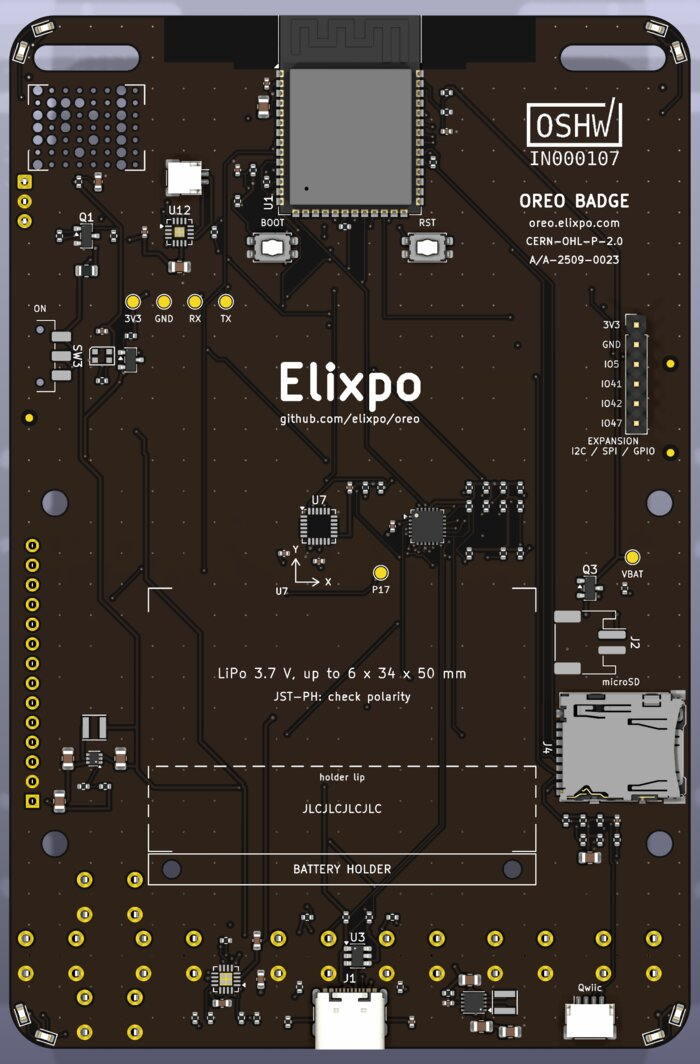
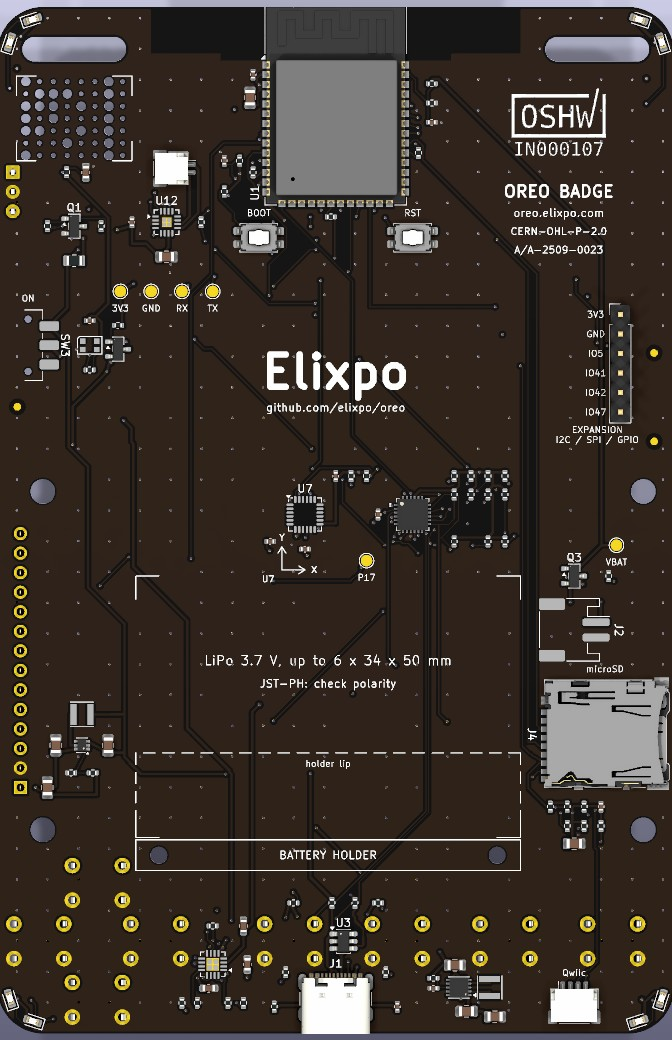
hardware: the PCB badge as ordered, with its docs and cost (#174)
The first five boards and the parts for the PCB badge are ordered. This
brings the repo, the docs and the website in line with what was ordered.

**Board**
- `elixpo.kicad_pcb`: the `JLCJLCJLCJLC` order-number placeholder is
removed from the back silkscreen. The boards are ordered with **Mark on
PCB: Remove Mark**, so it would otherwise print as plain text.
- `generate_badge_pcb.py`: `JLC_MARK = None`, so a regenerated board
doesn't add it back.

**Cost and BOM**
- New `circuit/elixpo/BOM_COST.md`: the bill of materials for one badge.
Each LCSC line is the quantity one badge uses times its one-unit price
as paid, converted at the rate both orders were charged. It lists the
in-stock replacements used where LCSC had run out (22 µF C602037, 1 µF
50 V C92848, 22 Ω C114765, WS2812B-2020-V6 C52917434) and the parts
bought from LCSC that `BOM_ORDER.csv` had left to other shops. One badge
comes to ₹4,172 ±2%, before customs duty.

**Docs and website**
- `circuit/elixpo/README.md`: front and back renders, the JLCPCB order
settings, and hand assembly from bare boards.
- `README.md`, `docs/HARDWARE.md`: the PCB badge alongside the
breadboard badge that OreoOS runs on today.
- Website badge page (`oreo.elixpo/src/app/badge/page.tsx`): the PCB's
specs and its front and back renders.
- `renders/back.jpg`: re-rendered without the placeholder.

**Tested on the host**
- ERC: 0 errors, 0 warnings. DRC with schematic parity: 0 errors, 0
unconnected, the same 4 warnings as main.
[…]

diff --git a/oreo.elixpo/src/app/badge/page.tsx b/oreo.elixpo/src/app/badge/page.tsx
@@ -8,14 +8,14 @@ import {
 } from "lucide-react";
 
 const SPECS = [
-  { Icon: Cpu,          k: "MCU",      v: "ESP32-S3 dual core @ 240 MHz" },
-  { Icon: MemoryStick,  k: "Memory",   v: "16 MB flash · 8 MB PSRAM" },
-  { Icon: Radio,        k: "Radio",    v: "WiFi 2.4 GHz · BLE 5 · IR transceiver" },
-  { Icon: Layout,       k: "Display",  v: "ST7789 240×320 IPS · portrait" },
-  { Icon: Battery,      k: "Power",    v: "USB-C + LiPo deep-sleep · ~5 µA standby" },
-  { Icon: Usb,          k: "I/O",      v: "8-button matrix · IMU · 1-wire IR · I²C bus" },
-  { Icon: Ruler,        k: "Dimensions", v: "55 × 90 mm portrait PCB" },
-  { Icon: Layers,       k: "Layers",   v: "4-layer FR-4 · 1.6 mm · ENIG finish" },
+  { Icon: Cpu,          k: "MCU",      v: "ESP32-S3-WROOM-1 · dual core @ 240 MHz" },
+  { Icon: MemoryStick,  k: "Memory",   v: "16 MB flash · 8 MB PSRAM · microSD" },
+  { Icon: Radio,        k: "Radio",    v: "Wi-Fi 2.4 GHz · Bluetooth LE 5 · IR transmit and receive" },
+  { Icon: Layout,       k: "Display",  v: "2.8″ ILI9341 320×240 · resistive touch · landscape" },
+  { Icon: Battery,      k: "Power",    v: "LiPo · USB-C charging (BQ24074) · 3.3 V buck-boost" },
+  { Icon: Usb,          k: "I/O",      v: "8 buttons · MPU-6050 · speaker · Qwiic · 4-GPIO header" },
+  { Icon: Ruler,        k: "Dimensions", v: "88 × 133.5 mm portrait PCB" },
+  { Icon: Layers,       k: "Layers",   v: "4-layer FR-4 · 1.6 mm · black mask" },
 ];
 
 const STACK = [
@@ -44,7 +44,7 @@ export default function BadgePage() {
         <div className="max-w-3xl">
           <motion.div initial="hidden" animate="visible" variants={staggerContainer}>
             <motion.span variants={fadeUp} className="chip mb-6">
-              ESP32-S3-DevKitC · breadboard phase
+              PCB v1 · first boards ordered
             </motion.span>
             <motion.h1
               variants={fadeUp}
@@ -57,25 +57,32 @@ export default function BadgePage() {
               </span>
             </motion.h1>
             <motion.p variants={fadeUp} className="mt-5 max-w-2xl text-text-dim">
-              Tufty-classic portrait layout. Eight buttons, IR for line-of-sight
-              quests, an MPU6050 for shake and tilt, four LEDs around the frame.
-              The build guide, BOM and KiCad schematics live in the repo — fork
-              them and roll your own.
+              A 2.8″ touch screen, eight buttons, IR for line-of-sight quests,
+              an MPU-6050 for shake and tilt, a speaker, and LEDs around the
+              frame. The KiCad design, the bill of materials and the build
+              notes live in the repo, so you can fork them and make your own.
             </motion.p>
             <motion.div variants={fadeUp} className="mt-8 flex flex-wrap gap-3">
               <a
-                href="https://github.com/elixpo/oreo/blob/main/docs/HARDWARE.md"
+                href="https://github.com/elixpo/oreo/blob/main/circuit/elixpo/README.md"
                 target="_blank" rel="noreferrer"
                 className="btn-primary"
               >
-                <Github className="h-4 w-4" /> Build guide + BOM
+                <Github className="h-4 w-4" /> Board design notes
+              </a>
+              <a
+                href="https://github.com/elixpo/oreo/blob/main/circuit/elixpo/BOM_COST.md"
+                target="_blank" rel="noreferrer"
+                className="btn-ghost"
+              >
+                Bill of materials
               </a>
               <a
                 href="https://github.com/elixpo/oreo/tree/main/circuit/elixpo"
                 target="_blank" rel="noreferrer"
                 className="btn-ghost"
               >
-                KiCad schematics
+                KiCad files
               </a>
               <a
                 href="https://github.com/elixpo/oreo"
@@ -108,18 +115,32 @@ export default function BadgePage() {
 
         </div>
 
-        {/* ── BOARD SCHEMATIC ─────────────────────────────────────────── */}
+        {/* ── THE BOARD ───────────────────────────────────────────────── */}
         <Reveal>
-          <figure className="mt-16 overflow-hidden rounded-lg border border-border bg-bg-raised/40">
-            {/* eslint-disable-next-line @next/next/no-img-element */}
-            <img
-              src="/bom_board.webp"
-              alt="Oreo Badge board schematic and bill of materials"
-              className="h-auto w-full object-contain"
-              loading="lazy"
-              decoding="async"
-            />
-          </figure>
+          <div className="mt-16 grid gap-4 sm:grid-cols-2">
+            {[
+              { src: "/pcb_front.jpg", alt: "Front of the Oreo badge PCB", label: "Front" },
+              { src: "/pcb_back.jpg",  alt: "Back of the Oreo badge PCB",  label: "Back" },
+            ].map((img) => (
+              <figure
+                key={img.src}
+                className="overflow-hidden rounded-lg border border-border bg-bg-raised/40"
+              >
+                {/* eslint-disable-next-line @next/next/no-img-element */}
+                <img
+                  src={img.src}
+                  alt={img.alt}
+                  className="h-auto w-full object-contain"
+                  width={700} height={1064}
+                  loading="lazy"
+                  decoding="async"
+                />
+                <figcaption className="px-4 py-3 text-xs uppercase tracking-widest text-muted">
+                  {img.label}
+                </figcaption>
+              </figure>
+            ))}
+          </div>
         </Reveal>
 
         {/* ── SPEC GRID ────────────────────────────────────────────── */}

diff --git a/circuit/elixpo/generate_badge_pcb.py b/circuit/elixpo/generate_badge_pcb.py
@@ -58,7 +58,7 @@ HEART = (79.0, 35.5, 11.0)                # front, far right, where the panda is
 BACK_ROW_Y = 47.5                          # centre line of "Elixpo"
 BACK_COLUMN = (15.0, 9.0)                  # front-view centre x and top of the column
 REPO_URL = "github.com/elixpo/oreo"            # under "Elixpo"
-JLC_MARK = "JLCJLCJLCJLC"                     # where JLCPCB puts its order number
+JLC_MARK = None                                 # no JLCPCB order number ("Remove Mark")
 OSHW_H = 12.0                              # height of the OSHWA certification mark
 
 
@@ -566,9 +566,10 @@ def silkscreen(board):
             y += 2.5
     add_text(board, bs, "BATTERY HOLDER", bx + bw / 2, fy + HOLDER_FOOT / 2, 1.0, 0.15, mirror=True)
     add_text(board, bs, "holder lip", bx + bw / 2, ly + 1.4, 0.8, 0.12, mirror=True)
-    # JLCPCB prints its order number over this text ("Specify a location" when
-    # ordering); here the battery covers it.
-    add_text(board, bs, JLC_MARK, bx + bw / 2, ly + 5.5, 1.0, 0.15, mirror=True)
+    # Order with "Remove Mark": no JLCPCB order number. Set JLC_MARK to a
+    # placeholder to have it printed here, under the battery.
+    if JLC_MARK:
+        add_text(board, bs, JLC_MARK, bx + bw / 2, ly + 5.5, 1.0, 0.15, mirror=True)
     add_text(board, bs, "LiPo 3.7 V, up to 6 x 34 x 50 mm", bx + bw / 2, by + bh / 2 - 6, 1.2, 0.15, mirror=True)
     add_text(board, bs, "JST-PH: check polarity", bx + bw / 2, by + bh / 2 - 3, 1.0, 0.15, mirror=True)
     add_rect(board, pcbnew.B_Fab, sx, sy, sw, sh, 0.1)

diff --git a/circuit/elixpo/BOM_COST.md b/circuit/elixpo/BOM_COST.md
@@ -1,0 +1,99 @@
+# Oreo badge: one-unit BOM and cost
+
+The cost of the parts in **one** badge, from the prices actually paid on 17 November 2026. Both orders were charged at ₹93.96 to the dollar (JLCPCB ₹4,122 for $43.87; LCSC ₹4,063 for $43.24), so every LCSC price below is converted at that rate. Each LCSC line is the quantity one badge uses multiplied by that part's one-unit price in the cart; the packs and spare chips bought are not counted.
+
+## Summary
+
+| | Cost |
+|---|--:|
+| Bare board (1 of 5) | ₹824.40 |
+| LCSC parts, 50 lines (section 2) | ₹1,799.37 |
+| LCSC shipping, this badge's share | ₹90.93 |
+| Bought separately (section 3) | ₹1,457.00 |
+| **One badge** | **₹4,171.70** |
+| With a ±2% margin | ₹4,088 – ₹4,255 |
+
+Not included: customs duty on the two imports (paid on delivery; add its per-badge share when it is known), the soldering tools, and labour.
+
+## 1. Board
+
+JLCPCB, 5 bare boards for $43.87 = ₹4,122 including shipping, after a $6 first-order discount: 4 layers, FR-4 TG135, 1.6 mm, black mask, white silkscreen, HASL, 0.3 mm plugged vias, flying-probe tested. **One board: ₹824.40.**
+
+## 2. Parts from LCSC
+
+| Where it goes | Part | LCSC | Qty | Unit | Line |
+|---|---|---|--:|--:|--:|
+| C1 C21 C28 C32 | Samsung CL21A226MAYNNNE, 22 uF 25 V X5R 0805 | C602037 | 4 | ₹10.12 | ₹40.48 |
+| C2 C22 C27 C40 C61 C62 C64 C68 C71 | Samsung CL05B104KO5NNNC, 100 nF 16 V X7R 0402 | C1525 | 9 | ₹0.23 | ₹2.03 |
+| C3 | Samsung CL05A105KA5NQNC, 1 uF 25 V X5R 0402 | C52923 | 1 | ₹0.53 | ₹0.53 |
+| C20 C30 C31 C60 C67 | Samsung CL21A106KAYNNNE, 10 uF 25 V X5R 0805 | C15850 | 5 | ₹2.95 | ₹14.75 |
+| C23 | FH 0402B102K500NT, 1 nF 50 V X7R 0402 | C1523 | 1 | ₹0.34 | ₹0.34 |
+| C24 | Taiyo Yuden UMK107BJ105KA-T, 1 uF 50 V X5R 0603 | C92848 | 1 | ₹3.13 | ₹3.13 |
+| C25 C26 C70 | Samsung CL10A475KO8NNNC, 4.7 uF 16 V X5R 0603 | C19666 | 3 | ₹1.42 | ₹4.26 |
+| Q1 | CJ MMBT2222A, NPN SOT-23 | C8512 | 1 | ₹1.72 | ₹1.72 |
+| Q3 Q4 | AOS AO3401A, P-MOSFET SOT-23 | C15127 | 2 | ₹7.71 | ₹15.43 |
+| R1 R2 R16 R27 R42 R43 R45 R50 R51 R52 R53 R54 R55 R56 R57 R62 R63 R64 R65 R66 R67 | YAGEO RC0402JR-0710KL, 10 k 0402 | C60489 | 21 | ₹0.18 | ₹3.75 |
+| R3 R4 R12 R13 | YAGEO RC0402FR-0722RL, 22 R 0402 | C114765 | 4 | ₹0.17 | ₹0.68 |
+| R5 | UNI-ROYAL 0402WGF330JTCE, 33 R 0402 | C25105 | 1 | ₹0.11 | ₹0.11 |
+| R10 R11 | UNI-ROYAL 0402WGF5101TCE, 5.1 k 1% 0402 | C25905 | 2 | ₹0.13 | ₹0.26 |
+| R14 R15 | UNI-ROYAL 0402WGF2001TCE, 2 k 1% 0402 | C4109 | 2 | ₹0.18 | ₹0.36 |
+| R17 R18 R46 R72 | UNI-ROYAL 0402WGF1003TCE, 100 k 1% 0402 | C25741 | 4 | ₹0.08 | ₹0.34 |
+| R19 R60 | UNI-ROYAL 0402WGF1004TCE, 1 M 1% 0402 | C26083 | 2 | ₹0.11 | ₹0.23 |
+| R21 | UNI-ROYAL 0402WGF2002TCE, 20 k 1% 0402 | C25765 | 1 | ₹0.09 | ₹0.09 |
+| R22 | UNI-ROYAL 0402WGF4702TCE, 47 k 1% 0402 | C25792 | 1 | ₹0.18 | ₹0.18 |
+| R23 R24 R71 | UNI-ROYAL 0402WGF1001TCE, 1 k 1% 0402 | C11702 | 3 | ₹0.12 | ₹0.37 |
+| R25 | UNI-ROYAL 0402WGF3301TCE, 3.3 k 1% 0402 | C25890 | 1 | ₹0.34 | ₹0.34 |
+| R26 | UNI-ROYAL 0402WGF100JTCE, 10 R 0402 | C25077 | 1 | ₹0.10 | ₹0.10 |
+| R40 R41 | UNI-ROYAL 0402WGF2201TCE, 2.2 k 1% 0402 | C25879 | 2 | ₹0.11 | ₹0.23 |
+| R70 | UNI-ROYAL 0402WGF1000TCE, 100 R 1% 0402 | C25076 | 1 | ₹0.11 | ₹0.11 |
+| R73 | UNI-ROYAL 0805W8F470JT5E, 47 R 0805 | C17714 | 1 | ₹0.25 | ₹0.25 |
+| R74 | UNI-ROYAL 0402WGF3300TCE, 330 R 1% 0402 | C25104 | 1 | ₹0.10 | ₹0.10 |
+| C63 | FH 0402B222K500NT, 2.2 nF 50 V X7R 0402 | C1531 | 1 | ₹0.23 | ₹0.23 |
+| D1 D2 D3 D4 D21 D30 D31 D32 D33 D34 D35 D36 D37 | KENTO KT-0603O, orange (598 nm) 0603 | C111340 | 13 | ₹1.11 | ₹14.41 |
+| D10 | Vishay VSMY2940GX01, 940 nm 1206 | C3202699 | 1 | ₹72.33 | ₹72.33 |
+| D20 | KENTO KT-0603G, green 0603 | C12624 | 1 | ₹1.13 | ₹1.13 |
+| J1 | GCT USB4105-GF-A, USB-C receptacle | C3020560 | 1 | ₹96.93 | ₹96.93 |
+| J2 | XYECONN XY-S2B-PH-SM4-TB, JST-PH 2-pin battery connector | C54582899 | 1 | ₹4.44 | ₹4.44 |
+| J4 | Hirose DM3AT-SF-PEJM5, microSD | C114218 | 1 | ₹131.94 | ₹131.94 |
+| J5 | JST SM04B-SRSS-TB(LF)(SN), SH 4-pin | C51940130 | 1 | ₹3.72 | ₹3.72 |
+| J7 | JST SM02B-SRSS-TB(LF)(SN), SH 2-pin (speaker plug) | C160402 | 1 | ₹12.54 | ₹12.54 |
+| L1 L2 | TDK VLS3015ET-1R5N, 1.5 uH | C3221497 | 2 | ₹5.94 | ₹11.88 |
+| R20 | UNI-ROYAL 0402WGF1503TCE, 150 k 1% 0402 | C25755 | 1 | ₹0.10 | ₹0.10 |
+| SW1 SW2 | Panasonic EVQP2P02W, side-push tact (reset, boot) | C512395 | 2 | ₹52.98 | ₹105.95 |
+| SW3 | C&K JS102011SAQN, slide switch | C221660 | 1 | ₹81.03 | ₹81.03 |
+| U1 | Espressif ESP32-S3-WROOM-1-N16R8 | C2913202 | 1 | ₹507.40 | ₹507.40 |
+| U3 | ST USBLC6-2SC6, USB ESD | C7519 | 1 | ₹14.89 | ₹14.89 |
+| U4 | TI BQ24074RGTR, charger, VQFN-16 | C54313 | 1 | ₹201.00 | ₹201.00 |
+| U5 | TI TPS63031DSKR, 3.3 V buck-boost, WSON-10 | C15516 | 1 | ₹109.73 | ₹109.73 |
+| U6 | TI TPS61023DRLR, 5 V boost for the display, SOT-563 | C919459 | 1 | ₹22.11 | ₹22.11 |
+| U9 | Worldsemi WS2812B-2020-V6, status LED | C52917434 | 1 | ₹8.67 | ₹8.67 |
+| U11 | Awinic AW9523BTQR, I2C expander, QFN-24 | C148077 | 1 | ₹30.96 | ₹30.96 |
+| U12 | ADI MAX98357AETE+T, I2S amplifier, TQFN-16 | C910544 | 1 | ₹124.17 | ₹124.17 |
+| J3 | 1x14 female header, 2.54 mm, 8.5 mm tall | C41417326 | 1 | ₹22.24 | ₹22.24 |
+| SW11 SW12 SW13 SW14 SW15 SW16 SW17 SW18 | SHOU HAN TS665CJ, 6x6x5 mm through-hole button | C393938 | 8 | ₹1.84 | ₹14.73 |
+| U8 | Vishay TSOP38238, 38 kHz IR receiver | C141632 | 1 | ₹61.47 | ₹61.47 |
+| LS1 | XHXDZ 1511-L60MM, 8 ohm 15x11 mm speaker | C50387185 | 1 | ₹55.19 | ₹55.19 |
+| | **Parts** | | | | **₹1,799.37** |
+| | Shipping share ($2.08 net shipping, split by value) | | | | ₹90.93 |
+| | **LCSC total** | | | | **₹1,890.30** |
+
+## 3. Bought separately
+
+| Ref | Item | Qty | Price | Status |
+|---|---|--:|--:|---|
+| LCD1 | 2.8″ ILI9341 SPI display with touch, 14-pin (MSP2807 type) | 1 | ₹629 | paid |
+| U7 | MPU-6050 motion sensor, QFN-24 4×4 mm | 1 | ₹426 | paid |
+| BT1 | LiPo 3.7 V 2000 mAh, protection board, JST-PH 2.0 lead | 1 | ₹300 | paid |
+| — | Photo paper name card for the front | 1 | ₹10 | paid |
+| — | Lanyard | 1 | ₹20 | paid |
+| HW1–HW14 | 4 × M3 11 mm standoffs, 8 × M3×5 and 2 × M2×6 screws | 1 | ₹62 | estimate |
+| BH1 | Battery mount (double-sided foam tape) | 1 | ₹10 | estimate |
+| | **Total** | | **₹1,457** | |
+
+## Notes
+
+- Totals carry a ±2% margin for exchange-rate and price changes.
+
+- The two `estimate` lines are the only prices not yet paid; replace them when bought.
+- Spares bought with the first order (a second BQ24074 and TPS63031, and the rest of each pack) are not in this cost.
+- The full BOM with every designator is `BOM_ORDER.csv`.

diff --git a/circuit/elixpo/README.md b/circuit/elixpo/README.md
@@ -4,8 +4,14 @@ The Oreo Badge is certified open source hardware by the Open Source Hardware
 Association, UID [IN000107](https://certification.oshwa.org/in000107.html). The design is licensed under
 CERN-OHL-P-2.0 (see `LICENSE` in this directory).
 
+<p align="center">
+<img src="renders/front.jpg" alt="Front of the board" width="300">
+<img src="renders/back.jpg" alt="Back of the board" width="300">
+</p>
+
 This KiCad 10 project is the PCB successor to the ESP32-S3 DevKitC
-breadboard: a 4-layer, 88 x 133.5 mm board, fully routed. The root
+breadboard: a 4-layer, 88 x 133.5 mm board, fully routed. The first five
+boards were ordered in November 2026. The root
 schematic, `elixpo.kicad_sch`, links five sheets:
 
 1. ESP32-S3-WROOM-1-N16R8 module, reset and boot, debug pads.
@@ -21,7 +27,9 @@ produce the ERC report, PDF and KiCad-native BOM under `circuit/elixpo/build/`.
 
 `BOM_PROCUREMENT.csv` is the sourcing-oriented BOM. `BOM_PRELIMINARY.csv` is a
 flat engineering export that is regenerated directly from the schematic model.
-`BOM_ORDER.csv` is the shopping list (see Assembly below).
+`BOM_ORDER.csv` is the shopping list generated from the schematic (see
+Assembly below), and `BOM_COST.md` is the bill of materials for one badge
+as it was actually ordered, with the cost of each part.
 
 ## Pin map
 
@@ -89,7 +97,7 @@ this board.
   pins. GPIO0 has a dedicated BOOT switch and EN has the recommended
   10 kohm/1 uF reset network.
 
-## Before ordering and on the first boards
+## On the first boards
 
 - Check the display module's header order against J3, and the battery
   lead's polarity against J2.
@@ -116,21 +124,46 @@ Before soldering J3, check that the module's header reads VCC, GND, CS,
 RESET, DC, SDI, SCK, LED, SDO, T_CLK, T_CS, T_DIN, T_DO, T_IRQ from pin 1:
 clones differ.
 
+## Ordering the boards
+
+`python3 export_jlcpcb.py` writes `build/jlcpcb/oreo-badge-gerbers.zip`.
+The first boards were ordered from JLCPCB with these options:
+
+| Option | Setting |
+|---|---|
+| Layers, thickness | 4, 1.6 mm, FR-4 TG135, no stackup requirement |
+| Copper | 1 oz outer, 0.5 oz inner |
+| Mask, silkscreen | black, white |
+| Surface finish | HASL (lead-free for boards that are sold) |
+| Vias | 0.3 mm drill, 0.4/0.45 mm pad, plugged |
+| Mark on PCB | Remove Mark (the board has no order-number placeholder) |
+| Electrical test | flying probe, fully tested |
+| PCB assembly, stencil | off |
+
 ## Assembly
 
-JLCPCB assembles the basic-library parts (all on the back); everything
-else is bought and hand-soldered, as `BOM_ORDER.csv` sets out, including
-the through-hole parts: the eight 6 mm buttons, J3, and the IR receiver. The
-corner LEDs D1-D4 on the front stay SMD; each has two more on the back's
-corner curve (D30-D37), in parallel on the same AW9523B channel.
+The first badges are assembled by hand from bare boards. The parts come from
+LCSC, apart from the display, the MPU-6050, the battery and the screws;
+`BOM_COST.md` lists every part as ordered, including the in-stock
+replacements used for the parts LCSC had run out of. The chips with an
+exposed pad (BQ24074, TPS63031, TPS61023, AW9523B, MAX98357A, MPU-6050) and
+the two inductors need solder paste and hot air or a hot plate; everything
+else, including the through-hole buttons, J3 and the IR receiver, is
+soldered with an iron. The corner LEDs D1-D4 on the front stay SMD; each has
+two more on the back's corner curve (D30-D37), in parallel on the same
+AW9523B channel. The speaker's wires solder to J7's pads if it has no
+JST-SH plug.
 
-`python3 export_jlcpcb.py` writes the order files: the Gerber zip, and a
-JLCPCB assembly BOM and placement list in `build/jlcpcb/` that hold only
-parts from JLCPCB's basic library (no extended-part fees; all on the back,
-so assembly is single-sided). `BOM_ORDER.csv` lists everything a badge
-needs: what JLCPCB fits, the SMD and through-hole parts to buy and solder
-by hand (the exposed-pad chips need a stencil and hot air or a hot plate),
-and the off-board parts, with LCSC numbers and prices.
+`export_jlcpcb.py` also writes a JLCPCB assembly BOM and placement list in
+`build/jlcpcb/` holding only parts from JLCPCB's basic library (all on the
+back, so assembly is single-sided), for anyone who wants JLCPCB to fit
+those. `BOM_ORDER.csv` lists everything a badge needs: what JLCPCB can fit,
+the SMD and through-hole parts to solder by hand, and the off-board parts,
+with LCSC numbers and prices.
+
+OreoOS and its firmware are flashed over USB-C once a board is assembled;
+the OS first needs this board's pin map, an ILI9341 driver, a touch driver
+and the expander button driver (#154).
 
 The battery sits on the back in a 3D-printed L-shaped holder: it runs the
 cell's 50 mm edge, is as tall as the cell (6 mm) and has a 10-12 mm lip over

diff --git a/README.md b/README.md
@@ -450,16 +450,33 @@ user through this exact workflow.
 
 ## 🛠 Hardware
 
-| | |
-|---|---|
-| **MCU** | ESP32-S3-DevKitC-1-N16R8 (16 MB flash, 8 MB PSRAM) |
-| **Display** | ST7789 IPS, 2.0", 320×240, 4-wire SPI @ 40 MHz |
-| **Input** | 8 tactile buttons (HOME, A, B, C and a D-pad), also the wake-from-sleep source. Touch pads are not fitted (#102) |
-| **Sensors** | MPU-6050 (6-DoF IMU), TSOP38238 (IR RX) |
-| **Output** | 4 corner LEDs, WS2812 status NeoPixel, IR LED (940 nm) + 2N2222 driver |
-| **Comms** | WiFi 802.11 b/g/n, BLE 5.0, IR, USB-C |
-| **Power** | 18650 cell + MAX17048 fuel gauge, USB-C charging, AMS1117-3.3 LDO |
-| **Clock** | RTC backed by NTP — boot sync + manual re-sync from Settings / C-panel |
+OreoOS runs today on a breadboard badge built from an ESP32-S3 DevKitC. The
+PCB badge, designed in KiCad under [`circuit/elixpo/`](circuit/elixpo/), is
+finished: the first five boards were ordered in November 2026, and OreoOS is
+flashed onto it once a board is assembled.
+
+<div align="center">
+<img src="circuit/elixpo/renders/front.jpg" alt="Oreo badge PCB, front" width="300">
+<img src="circuit/elixpo/renders/back.jpg" alt="Oreo badge PCB, back" width="300">
+</div>
+
+| | Breadboard badge (runs today) | PCB badge (first boards ordered) |
+|---|---|---|
+| **MCU** | ESP32-S3-DevKitC-1-N16R8 | ESP32-S3-WROOM-1-N16R8 (16 MB flash, 8 MB PSRAM) |
+| **Display** | ST7789 IPS, 2.0", 320×240 | ILI9341 2.8", 320×240, resistive touch, on its own 5 V boost |
+| **Input** | 8 buttons on GPIOs | 8 buttons on an AW9523B I²C expander, plus RESET and BOOT |
+| **Sensors** | MPU-6050, TSOP38238 IR receiver | MPU-6050 (I²C 0x69), TSOP38238 IR receiver |
+| **Output** | 4 corner LEDs, WS2812 status LED, IR LED | 4 corner LEDs (each with 2 more on the back edge), WS2812B status LED, IR LED, MAX98357A amp and speaker |
+| **Storage** | — | microSD (1-bit SDMMC) |
+| **Expansion** | — | Qwiic (I²C) and a 4-GPIO header (I²C, SPI or GPIO) |
+| **Comms** | Wi-Fi, BLE 5.0, IR, USB-C | Wi-Fi, BLE 5.0, IR, native USB-C |
+| **Power** | 18650 + MAX17048, AMS1117-3.3 | LiPo with BQ24074 USB-C charger, TPS63031 3.3 V buck-boost |
+| **Clock** | RTC backed by NTP | ESP32 clock, set by NTP after a cold start |
+| **Board** | — | 4 layers, 88 × 133.5 mm, OSHWA-certified (IN000107) |
+
+The PCB's design notes, pin map and ordering steps are in
+[`circuit/elixpo/README.md`](circuit/elixpo/README.md), and the parts and cost
+of one badge in [`circuit/elixpo/BOM_COST.md`](circuit/elixpo/BOM_COST.md).
 
 📄 **Full electrical / mechanical specs:** see [`docs/DATASHEET.md`](docs/DATASHEET.md)
 🔧 **Build guide + pinout + soldering tips:** see [`docs/HARDWARE.md`](docs/HARDWARE.md)

diff --git a/docs/HARDWARE.md b/docs/HARDWARE.md
@@ -12,10 +12,17 @@ There are two designs:
   today, and its pins are the ones in
   [`oreoWare/pins.py`](../oreoWare/pins.py).
 - **The PCB badge** ([`circuit/elixpo/`](../circuit/elixpo/), KiCad 10): a
-  bare ESP32-S3R8 board with a BQ24074 power-path charger and a TPS63031
-  buck-boost 3.3 V rail, about 90×54 mm to fit a lanyard slot. The
-  schematic exists and the board is not laid out yet. Help is welcome:
-  see [Work on the hardware](../CONTRIBUTING.md#work-on-the-hardware).
+  4-layer, 88 × 133.5 mm board with an ESP32-S3-WROOM-1-N16R8 module, a
+  2.8" ILI9341 touch display on its own 5 V boost, a BQ24074 USB-C charger
+  and a TPS63031 3.3 V buck-boost rail, the buttons on an AW9523B expander,
+  a speaker amp, microSD, Qwiic and a 4-GPIO expansion header. It is fully
+  routed and passes ERC and DRC; the first five boards were ordered in
+  November 2026. Its design notes, pin map and ordering steps are in
+  [`circuit/elixpo/README.md`](../circuit/elixpo/README.md), and the parts
+  and cost of one badge in
+  [`circuit/elixpo/BOM_COST.md`](../circuit/elixpo/BOM_COST.md). OreoOS
+  needs a matching pin map and drivers before it runs on this board
+  (#154); it is flashed once a board is assembled.
 
 Where the two differ, the parts lists and power section below describe the
 breadboard.
